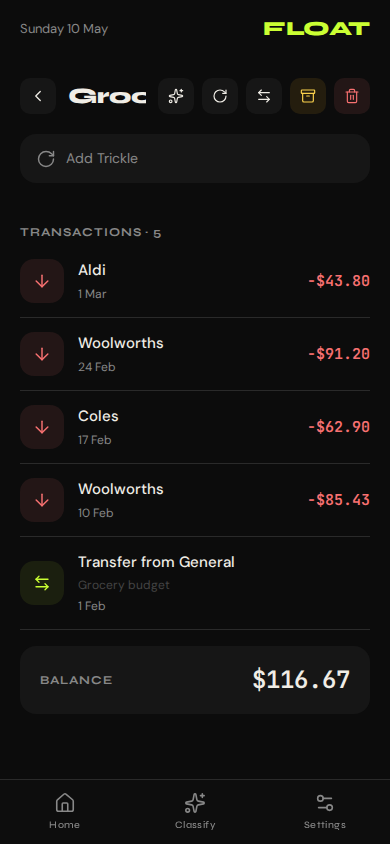
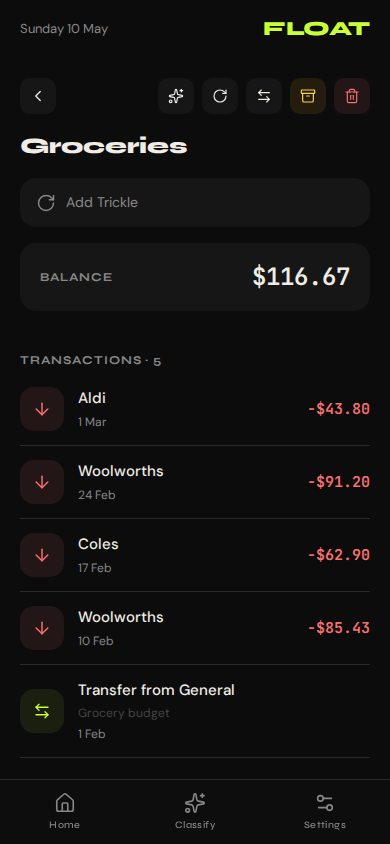
ux (#32)
* ux

* Update screenshots

* ux

* Update screenshots

---------

diff --git a/web/src/pages/BucketDetail.tsx b/web/src/pages/BucketDetail.tsx
@@ -180,7 +180,8 @@ export default function BucketDetail() {
           padding: '20px 20px 0',
         }}
       >
-        <div style={{ display: 'flex', alignItems: 'center', gap: 12, marginBottom: 20 }}>
+        <div style={{ marginBottom: 20 }}>
+          <div style={{ display: 'flex', alignItems: 'center', justifyContent: 'space-between', marginBottom: 20 }}>
           <button
             onClick={() => navigate('/')}
             style={{
@@ -199,20 +200,6 @@ export default function BucketDetail() {
           >
             <ChevronLeft size={18} strokeWidth={1.75} />
           </button>
-          <div style={{ flex: 1, minWidth: 0 }}>
-            <h1
-              className="line-clamp-1"
-              style={{
-                fontFamily: 'Syne',
-                fontWeight: 800,
-                fontSize: 22,
-                color: 'var(--text)',
-                lineHeight: 1.1,
-              }}
-            >
-              {bucket?.name ?? '…'}
-            </h1>
-          </div>
           <div style={{ display: 'flex', gap: 8 }}>
             {!bucket?.is_general && (
               <button
@@ -307,6 +294,18 @@ export default function BucketDetail() {
               </button>
             )}
           </div>
+          </div>
+          <h1
+            style={{
+              fontFamily: 'Syne',
+              fontWeight: 800,
+              fontSize: 22,
+              color: 'var(--text)',
+              lineHeight: 1.1,
+            }}
+          >
+            {bucket?.name ?? '…'}
+          </h1>
         </div>
 
         {!bucket?.is_general && (
@@ -386,6 +385,46 @@ export default function BucketDetail() {
             )}
           </div>
         )}
+      </div>
+
+      {/* Balance card */}
+      <div style={{ padding: '0 20px 16px' }}>
+        <div
+          style={{
+            background: 'var(--surface)',
+            borderRadius: 16,
+            padding: '16px 20px',
+            display: 'flex',
+            justifyContent: 'space-between',
+            alignItems: 'center',
+          }}
+        >
+          <p
+            style={{
+              fontFamily: 'Syne',
+              fontWeight: 700,
+              fontSize: 12,
+              letterSpacing: '0.08em',
+              color: 'var(--text-2)',
+            }}
+          >
+            BALANCE
+          </p>
+          {bucket?.foreign_balance_display ? (
+            <div style={{ textAlign: 'right' }}>
+              <p className={bucket.balance_display.startsWith("-") ? 'amount-negative' : 'amount-positive'} style={{ fontSize: 24, fontWeight: 600 }}>
+                {bucket.foreign_balance_display} {bucket.currency_code}
+              </p>
+              <p style={{ fontSize: 13, color: 'var(--text-3)', marginTop: 3 }}>
+                {bucket.balance_display} AUD
+              </p>
+            </div>
+          ) : (
+            <p className="amount-neutral" style={{ fontSize: 24, fontWeight: 600 }}>
+              {bucket ? bucket.balance_display : '—'}
+            </p>
+          )}
+        </div>
       </div>
 
       {/* Transaction list */}
@@ -581,46 +620,6 @@ export default function BucketDetail() {
           })
         )}
 
-        {/* Balance card */}
-        <div
-          style={{
-            background: 'var(--surface)',
-            borderRadius: 16,
-            padding: '16px 20px',
-            marginTop: 16,
-            display: 'flex',
-            justifyContent: 'space-between',
-            alignItems: 'center',
-          }}
-        >
-          <p
-            style={{
-              fontFamily: 'Syne',
-              fontWeight: 700,
-              fontSize: 12,
-              letterSpacing: '0.08em',
-              color: 'var(--text-2)',
-            }}
-          >
-            BALANCE
-          </p>
-          {bucket?.foreign_balance_display ? (
-            <div style={{ textAlign: 'right' }}>
-              <p className={bucket.balance_display.startsWith("-") ? 'amount-negative' : 'amount-positive'} style={{ fontSize: 24, fontWeight: 600 }}>
-                {bucket.foreign_balance_display} {bucket.currency_code}
-              </p>
-              <p style={{ fontSize: 13, color: 'var(--text-3)', marginTop: 3 }}>
-                {bucket.balance_display} AUD
-              </p>
-            </div>
-          ) : (
-            <p className="amount-neutral" style={{ fontSize: 24, fontWeight: 600 }}>
-              {bucket
-                ? bucket.balance_display
-                : '—'}
-            </p>
-          )}
-        </div>
       </div>
 
       {/* Delete confirmation sheet — portalled to body to clear nav tabs */}

diff --git a/web/src/pages/Transfers.tsx b/web/src/pages/Transfers.tsx
@@ -72,42 +72,44 @@ export default function Transfers() {
                 padding: '14px 16px',
                 marginBottom: 10,
                 display: 'flex',
-                alignItems: 'center',
-                gap: 12,
+                flexDirection: 'column',
+                gap: 6,
               }}
             >
-              <div style={{ flex: 1, minWidth: 0 }}>
-                <p style={{ fontSize: 14, color: 'var(--text)', fontWeight: 500, marginBottom: 3 }}>
-                  <span style={{ color: 'var(--text-2)' }}>{t.from_bucket_name}</span>
-                  {' → '}
-                  <span>{t.to_bucket_name}</span>
-                </p>
-                {t.note && (
-                  <p className="line-clamp-1" style={{ fontSize: 12, color: 'var(--text-3)', marginBottom: 3 }}>{t.note}</p>
-                )}
-                <p style={{ fontSize: 12, color: 'var(--text-2)' }}>{formatDate(t.created_at)}</p>
-              </div>
-              <p className="amount-neutral" style={{ fontSize: 16, fontWeight: 600, flexShrink: 0 }}>
-                {t.display_amount}
+              <p className="line-clamp-1" style={{ fontSize: 14, color: 'var(--text)', fontWeight: 500 }}>
+                <span style={{ color: 'var(--text-2)' }}>{t.from_bucket_name}</span>
+                {' → '}
+                <span>{t.to_bucket_name}</span>
               </p>
-              <button
-                onClick={() => deleteTransfer.mutate(t.transfer_id)}
-                disabled={pendingDeleteId === t.transfer_id}
-                style={{
-                  background: 'rgba(248,113,113,0.1)',
-                  border: 'none',
-                  borderRadius: 8,
-                  width: 32,
-                  height: 32,
-                  display: 'flex',
-                  alignItems: 'center',
-                  justifyContent: 'center',
-                  cursor: 'pointer',
-                  flexShrink: 0,
-                }}
-              >
-                <Trash2 size={14} strokeWidth={1.75} color="var(--red)" />
-              </button>
+              <div style={{ display: 'flex', alignItems: 'center', gap: 12 }}>
+                <div style={{ flex: 1, minWidth: 0 }}>
+                  {t.note && (
+                    <p className="line-clamp-1" style={{ fontSize: 12, color: 'var(--text-3)', marginBottom: 2 }}>{t.note}</p>
+                  )}
+                  <p style={{ fontSize: 12, color: 'var(--text-2)' }}>{formatDate(t.created_at)}</p>
+                </div>
+                <p className="amount-neutral" style={{ fontSize: 16, fontWeight: 600, flexShrink: 0 }}>
+                  {t.display_amount}
+                </p>
+                <button
+                  onClick={() => deleteTransfer.mutate(t.transfer_id)}
+                  disabled={pendingDeleteId === t.transfer_id}
+                  style={{
+                    background: 'rgba(248,113,113,0.1)',
+                    border: 'none',
+                    borderRadius: 8,
+                    width: 32,
+                    height: 32,
+                    display: 'flex',
+                    alignItems: 'center',
+                    justifyContent: 'center',
+                    cursor: 'pointer',
+                    flexShrink: 0,
+                  }}
+                >
+                  <Trash2 size={14} strokeWidth={1.75} color="var(--red)" />
+                </button>
+              </div>
             </div>
           ))
         )}
